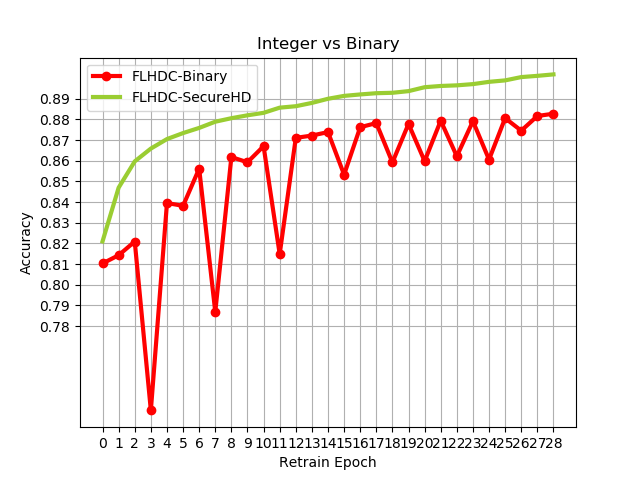
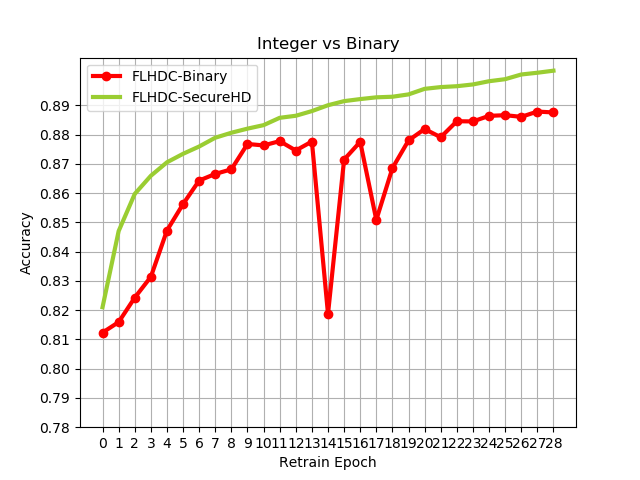
Remove the validation part

diff --git a/FLHDC_binaryAM/Global_model/global_model.py b/FLHDC_binaryAM/Global_model/global_model.py
@@ -4,6 +4,7 @@ import numpy as np
 from library import HDC_FL_binary as HDC
 import pickle
 import sys
+import copy
 '''
 * Aggregate the AM of each client Model to acquire global Model 
 * Report the test-set accuracy of Global Model and save them as csv file
@@ -16,7 +17,7 @@ def new_lr(larger, equal, current_lr):
     @ Return: the value of the next learning rate
     '''
     new_lr = 0
-    lr_list = [1, 2, 3, 4, 5]
+    lr_list = list(range(1, 6))
     if larger:
         # Increase the lr to the one-level larger one
         level = lr_list.index(current_lr)
@@ -139,7 +140,11 @@ def main():
         # Read the IntegerAM of Global Model to do retrain
         with open(os.path.join(file_dir, 'global_model_dict.pickle'), 'rb') as f:
             last_global_model = pickle.load(f)
-        Prototype_vector = last_global_model['Prototype_vector']
+        '''
+        # Note that we should use deep copy to prevent last_global_model to be changed 
+        # since shallow copy will only copy first-level properties for a dictionary e.g. integer
+        # while deep copy copies deep properties such as list and arrays'''
+        Prototype_vector = copy.deepcopy(last_global_model['Prototype_vector'])
 
         # Record the total times of modification for each label
         Total_times = {}
@@ -173,6 +178,10 @@ def main():
                     client_dict['Retrain_vector'][label]
                 # add the size to total modification times
                 Total_times[label] += size
+                # test the quality of class1 retrain_vector
+                if label == 1:
+                    print("# of different bits between class1 hv and gradient:{}".format(np.count_nonzero(
+                        client_dict['Retrain_vector'][label] != Prototype_vector['binary'][label])))
         # Print out the total modification times
         for Class in range(nof_class):
             print("Class:{} Total times of modification:{}".format(
@@ -190,11 +199,9 @@ def main():
         Prototype_vector['binary'][CLASS] = np.zeros(
             Prototype_vector['integer'][CLASS].shape).astype(int)
         Prototype_vector['binary'][CLASS][Prototype_vector['integer'][CLASS]
-                                          > 0] = 1
+                                          >= 0] = 1
         Prototype_vector['binary'][CLASS][Prototype_vector['integer'][CLASS]
                                           < 0] = -1
-        Prototype_vector['binary'][CLASS][Prototype_vector['integer'][CLASS] == 0] = np.random.choice(
-            [1, -1], size=np.count_nonzero(Prototype_vector['integer'][CLASS] == 0))
         print("# of 0:", np.count_nonzero(
             Prototype_vector['integer'][CLASS] == 0))
         # print out the number of flipped bit
@@ -205,6 +212,16 @@ def main():
             print("Learning rate:", learning_rate[CLASS])
             # Save the number of flipped bit into dictionary
             flipped_bit[CLASS] = number_of_flipped_bit
+
+            '''
+            * To prevent the # of flipped bit explodes, we cancel the update of integerAM and binaryAM
+            * once the # of flipped bit exceeds 1000
+            '''
+            if number_of_flipped_bit > 500:
+                Prototype_vector['binary'][CLASS] = last_vector
+                Prototype_vector['integer'][CLASS] = last_global_model['Prototype_vector']['integer'][CLASS]
+                print(
+                    "Flipped bit explodes!!! Cancel the update of Class {}".format(CLASS))
     ''' Print out the current iteration'''
     if len(sys.argv) > 1:
         # We will send a parameter "retrain", which means the global model is in retraining phase
@@ -242,7 +259,7 @@ def main():
     acc = MNIST.accuracy(y_true=test_label, y_pred=y_pred)
     print("Accuracy:{:.4f}".format(acc))
 
-    with open(os.path.join(file_dir, 'dim'+str(dimension)+"_K"+str(nof_clients)+'_lr.csv'), 'a') as f:
+    with open(os.path.join(file_dir, 'dim'+str(dimension)+"_K"+str(nof_clients)+'_lr_smallbatch.csv'), 'a') as f:
         if len(sys.argv) == 1:
             f.write('\n')
         f.write(str(acc)+',')

diff --git a/FLHDC_binaryAM/client_retraining.py b/FLHDC_binaryAM/client_retraining.py
@@ -58,8 +58,8 @@ def client_retraining(client_number, dimension, level, Nof_feature,
     file_dir = os.path.dirname(__file__)
     train_data, train_label = load_data(client_number)
     # # Partition data into train/val dataset
-    train_data, train_label, val_data, val_label = partition_train_val(
-        train_data=train_data, train_label=train_label)
+    # train_data, train_label, val_data, val_label = partition_train_val(
+    #     train_data=train_data, train_label=train_label)
     # Load the Global Model
     MNIST = HDC.HDC(dim=dimension, nof_class=nof_class,
                     nof_feature=Nof_feature, level=level, PCA_projection=PCA_Projection, binaryAM=binaryAM)
@@ -74,11 +74,11 @@ def client_retraining(client_number, dimension, level, Nof_feature,
     * too large size may cause the quality become bad )
     '''
     batch_size = np.minimum(
-        len(train_data), (len(train_data)+len(val_data))//5)
+        len(train_data), (len(train_data))//5)
     batch_index = np.random.choice(
         range(len(train_data)), batch_size, replace=False)
     # Retrain the AM
-    _, Times = MNIST.retrain(test_x=val_data, test_y=val_label, train_x=train_data[batch_index], train_y=train_label[batch_index], num_epoch=1, train_acc_demand=0.7, batch_size=batch_size, save_path=os.path.join(os.path.join(os.path.dirname(
+    _, Times = MNIST.retrain(test_x=train_data[batch_index], test_y=train_label[batch_index], train_x=train_data[batch_index], train_y=train_label[batch_index], num_epoch=1, train_acc_demand=0.7, batch_size=batch_size, save_path=os.path.join(os.path.join(os.path.dirname(
         __file__), 'client'+str(client_number)), 'Retrain_Model.pickle'))
 
     # Save the Retrain_vector and Size of local Dataset as pickle file

diff --git a/FLHDC_binaryAM/Global_model/library/HDC_FL_binary.py b/FLHDC_binaryAM/Global_model/library/HDC_FL_binary.py
@@ -295,8 +295,8 @@ class HDC:
                     self.PCA_projection = True
                 else:
                     train_y_pred = self.test(train_x)
-                train_acc = self.accuracy(y_true=train_y, y_pred=train_y_pred)
-                print("Training accuracy:{:.4f}".format(train_acc))
+                # train_acc = self.accuracy(y_true=train_y, y_pred=train_y_pred)
+                # print("Training accuracy:{:.4f}".format(train_acc))
 
                 '''Predict the test data'''
                 y_pred = self.test(test_x)

diff --git a/FLHDC_binaryAM/library/HDC_FL_binary.py b/FLHDC_binaryAM/library/HDC_FL_binary.py
@@ -295,8 +295,8 @@ class HDC:
                     self.PCA_projection = True
                 else:
                     train_y_pred = self.test(train_x)
-                train_acc = self.accuracy(y_true=train_y, y_pred=train_y_pred)
-                print("Training accuracy:{:.4f}".format(train_acc))
+                # train_acc = self.accuracy(y_true=train_y, y_pred=train_y_pred)
+                # print("Training accuracy:{:.4f}".format(train_acc))
 
                 '''Predict the test data'''
                 y_pred = self.test(test_x)

diff --git a/FLHDC_binaryAM/Global_model/plot_accuracy.py b/FLHDC_binaryAM/Global_model/plot_accuracy.py
@@ -11,7 +11,7 @@ Dir = os.path.dirname(__file__)
 result = []
 for K in [20]:
     for dim in [10000]:
-        with open(os.path.join(Dir, 'dim'+str(dim)+"_K"+str(K)+"_lr.csv"), 'r') as f:
+        with open(os.path.join(Dir, 'dim'+str(dim)+"_K"+str(K)+"_lr_limit.csv"), 'r') as f:
             for line in f:
                 # append the average of results for each parameter setup into the accuracy list
                 result.append(np.array(line.strip().strip(

diff --git a/FLHDC_binaryAM/client_rmtree.py b/FLHDC_binaryAM/client_rmtree.py
@@ -7,3 +7,4 @@ for dir in os.listdir():
 os.remove("Setup.pickle")
 os.remove("Global_model/flipped_bit.pickle")
 os.remove("Global_model/learning_rate.pickle")
+os.remove("Global_model/global_model_dict.pickle")
